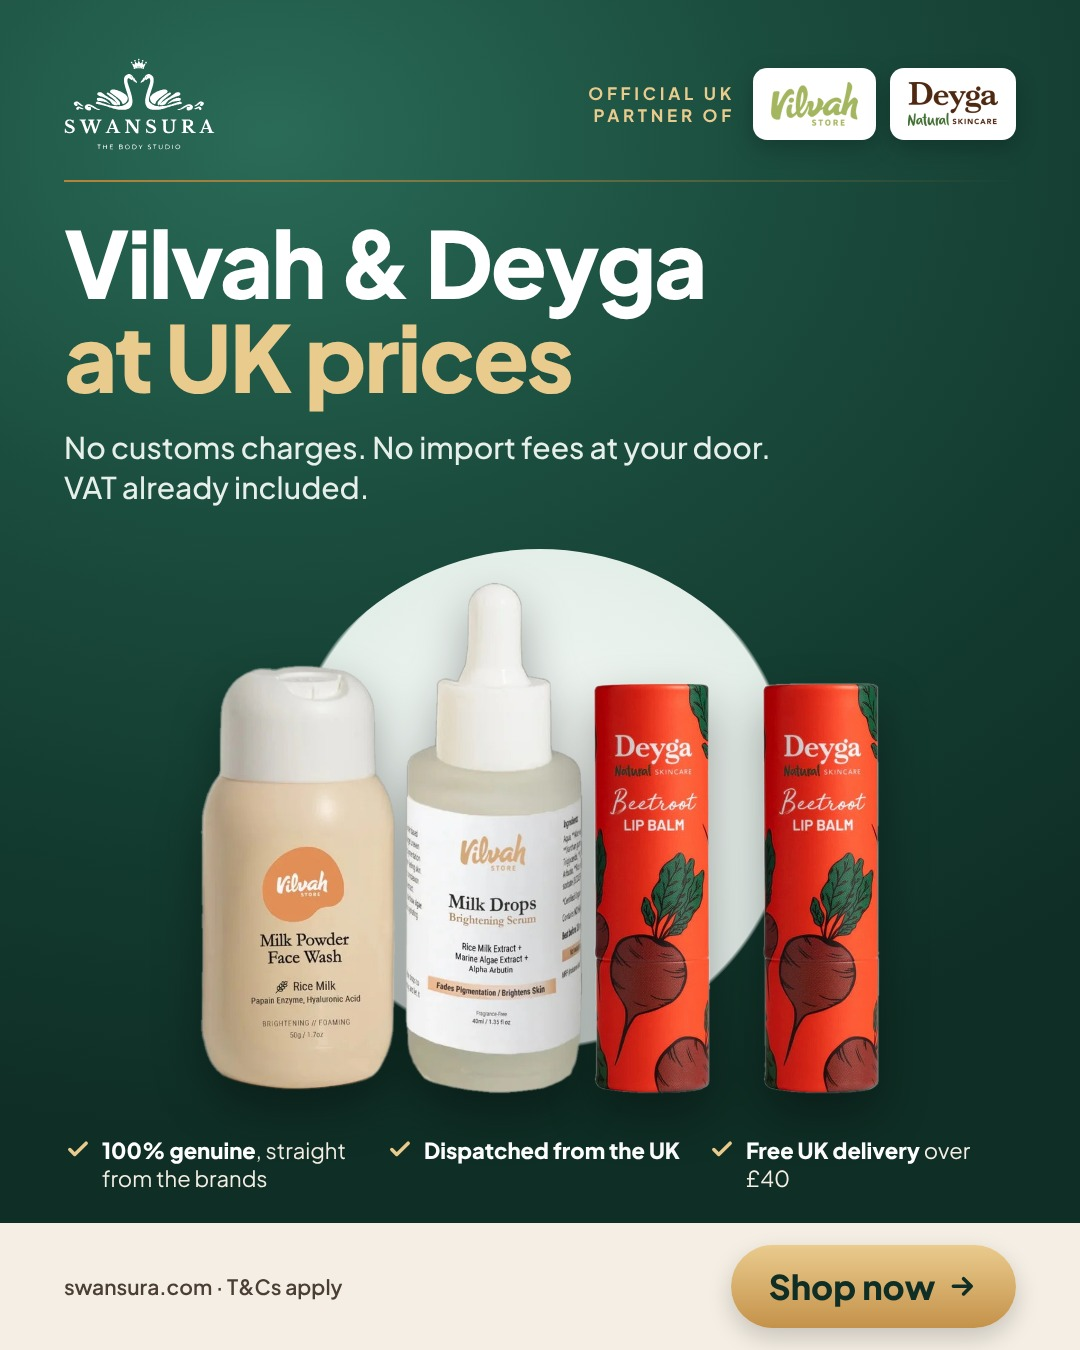
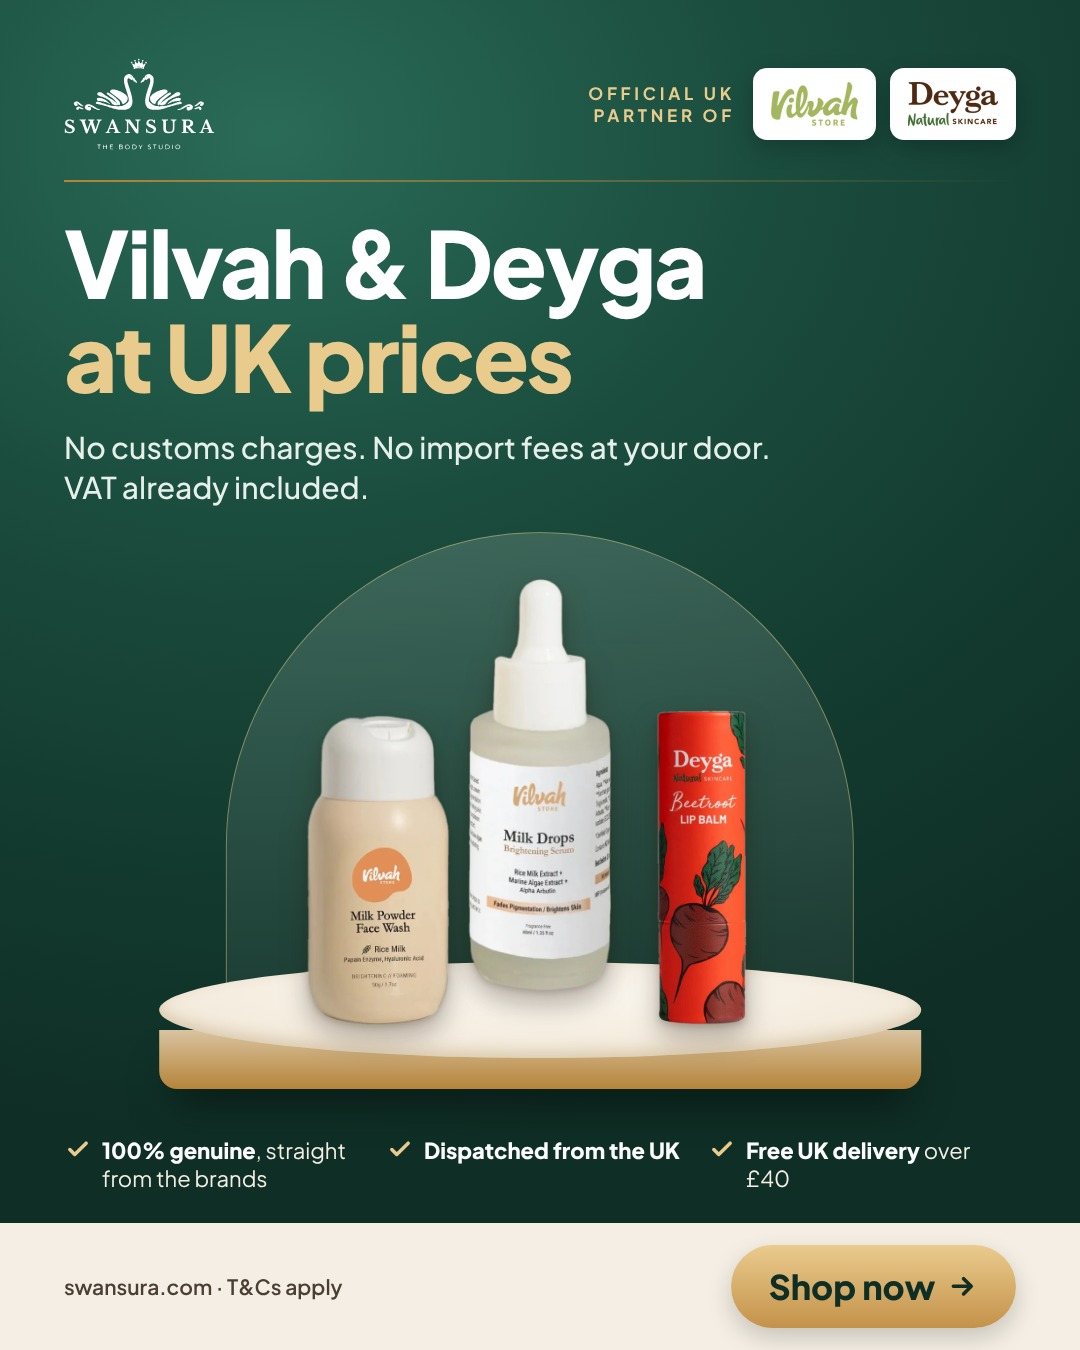
USP image ads: products re-placed on arch + plinth stage
Claude-Session: https://claude.ai/code/session_01FHVN4n8tpWTTcEhNkMK5Am

Changed region(s): [[0.1222, 0.3733, 0.8556, 0.8089]]

diff --git a/docs/ads/usp_2026-11-18/src/build.js b/docs/ads/usp_2026-11-18/src/build.js
@@ -8,11 +8,11 @@ const C={
  1:{eb:'Official UK partner of',h1:'Vilvah &amp; Deyga',h2:'at UK prices',
     sub:'No customs charges. No import fees at your door.<br>VAT already included.',
     ticks:['<b>100% genuine</b>, straight from the brands','<b>Dispatched from the UK</b>','<b>Free UK delivery</b> over £40'],
-    prods:['fbk.png','lip.png'],fine:'swansura.com · T&amp;Cs apply'},
+    prods:[['p_milkdrops40.png',50,20,72],['p_facewash.png',33,14,54],['p_stick_box.png',67,14,55]],fine:'swansura.com · T&amp;Cs apply'},
  2:{eb:'Official UK partner of',h1:'Next-day',h2:'UK delivery',
     sub:'Genuine Vilvah &amp; Deyga, dispatched from<br>our UK stock. No waiting on overseas parcels.',
     ticks:['<b>Next-day</b> delivery £3.99','<b>Free UK delivery</b> over £40','<b>100% genuine</b>, from the brands'],
-    prods:['apm.png','lip_beet.png'],fine:'Next working day after dispatch · swansura.com · T&amp;Cs apply'}};
+    prods:[['p_betterageing.png',33,19,62],['p_milkdrops20.png',51,19,62],['lip_beet.png',70,13,46]],fine:'Next working day after dispatch · T&amp;Cs apply'}};
 const SZ={'4x5':[1080,1350],'1x1':[1080,1080],'9x16':[1080,1920]};
 function html(c,W,H){const sq=W==H,tl=H>1500,k=sq?.86:1;
 const padT=tl?250:sq?44:58, padB=tl?260:0;
@@ -33,12 +33,13 @@ body{width:${W}px;height:${H}px;overflow:hidden;font-family:PJS;color:#F4EEE4;
 .h1{font-size:${92*k}px;font-weight:800;letter-spacing:-.025em;line-height:1;color:#fff}
 .h2{font-size:${92*k}px;font-weight:800;letter-spacing:-.025em;line-height:1.05;color:#EACB8E}
 .sub{margin-top:${22*k}px;font-size:${30*k}px;font-weight:500;line-height:1.35;color:#E6EFEA}
-.stage{flex:1;position:relative;margin:${sq?14:30}px ${64*k}px 0;min-height:0}
-.disc{position:absolute;left:50%;top:2%;height:96%;aspect-ratio:1;transform:translateX(-50%);border-radius:50%;
- background:radial-gradient(circle at 50% 45%,#F4F8F5 0%,#E4EEE9 62%,rgba(228,238,233,0) 63%)}
-.prods{position:absolute;inset:0;display:flex;align-items:flex-end;justify-content:center;gap:${10*k}px;padding-bottom:${sq?4:12}px}
-.prods img{max-height:92%;max-width:56%;object-fit:contain;filter:drop-shadow(0 22px 24px rgba(0,0,0,.35))}
-.prods img+img{max-height:74%;max-width:40%}
+.stage{flex:1;position:relative;margin:${sq?10:24}px ${64*k}px 0;min-height:0}
+.arch{position:absolute;left:50%;transform:translateX(-50%);top:0;bottom:16%;width:min(66%,calc((100% - 0px)*1));aspect-ratio:auto;border-radius:999px 999px 28px 28px;
+ background:linear-gradient(180deg,rgba(244,248,245,.16),rgba(244,248,245,.05));border:1.5px solid rgba(234,203,142,.45)}
+.plinth{position:absolute;left:50%;transform:translateX(-50%);bottom:3%;width:80%;height:22%}
+.plinth .face{position:absolute;left:0;right:0;bottom:0;height:46%;border-radius:0 0 18px 18px;background:linear-gradient(180deg,#D9C3A0,#B5843A);box-shadow:0 26px 40px -14px rgba(0,0,0,.55)}
+.plinth .top{position:absolute;left:0;right:0;top:0;height:76%;border-radius:50%;background:radial-gradient(120% 140% at 50% 30%,#FBF7F0 0%,#F1E7D6 55%,#E3D2B6 100%);box-shadow:inset 0 -6px 14px rgba(150,110,50,.25)}
+.item{position:absolute;transform:translateX(-50%);object-fit:contain;filter:drop-shadow(0 14px 14px rgba(40,25,10,.28)) drop-shadow(0 3px 3px rgba(40,25,10,.22))}
 .ticks{display:flex;justify-content:space-between;gap:${14*k}px;padding:${sq?18:30}px ${64*k}px ${sq?20:30}px}
 .ticks div{flex:1;display:flex;gap:${10*k}px;align-items:flex-start;font-size:${22*k}px;line-height:1.3;color:#F4EEE4}
 .ticks svg{flex:none;font-size:${28*k}px;margin-top:-1px}
@@ -52,7 +53,7 @@ ${tl?'.bar{position:absolute;left:0;right:0;bottom:-'+(padB-40)+'px}':''}
 <div class="partner"><span>${c.eb.replace('UK partner','UK<br>partner')}</span><div class="pill"><img src="${b64('vilvah.webp')}"></div><div class="pill"><img src="${b64('deyga.webp')}"></div></div></div>
 <div class="rule"></div>
 <div class="head"><div class="h1">${c.h1}</div><div class="h2">${c.h2}</div><div class="sub">${c.sub}</div></div>
-<div class="stage"><div class="disc"></div><div class="prods">${c.prods.map(p=>`<img src="${b64(p)}">`).join('')}</div></div>
+<div class="stage"><div class="arch"></div><div class="plinth"><div class="face"></div><div class="top"></div></div>${c.prods.map(([f,x,bo,h])=>`<img class="item" style="left:${x}%;bottom:${bo}%;height:${h}%" src="${b64(f)}">`).join('')}</div>
 <div class="ticks">${c.ticks.map(t=>`<div>${TICK}<span>${t}</span></div>`).join('')}</div>
 <div class="bar"><div class="fine">${c.fine}</div><div class="btn">Shop now ${ARR}</div></div>
 </div></body></html>`}
